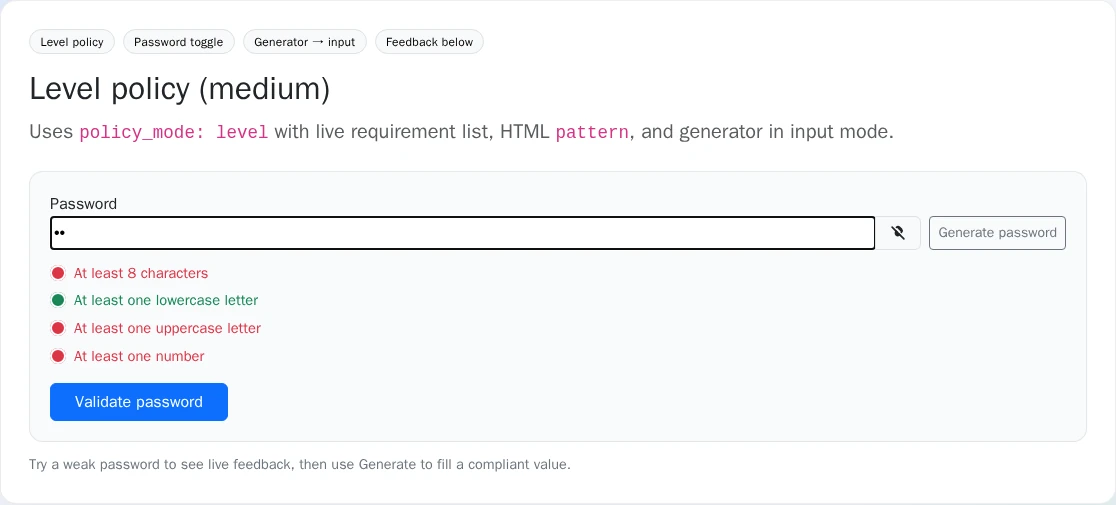
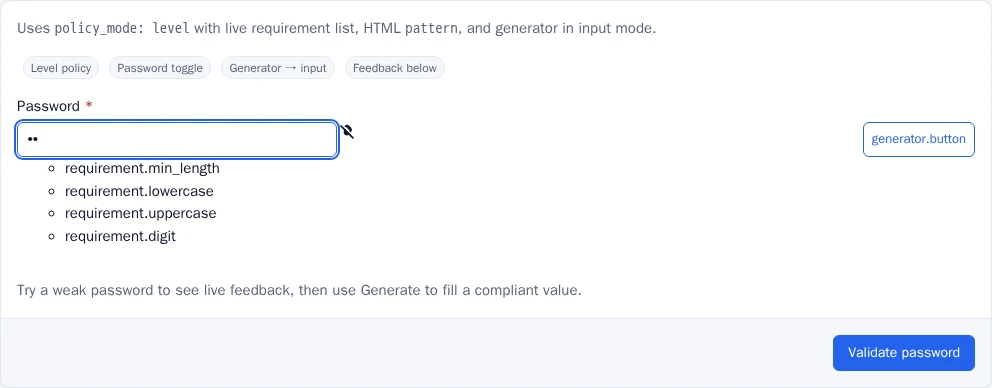
chore(demo): run the demo in UiKit's demo platform shell (#91)

diff --git a/demo/symfony8/e2e/tests/demo-platform.spec.ts b/demo/symfony8/e2e/tests/demo-platform.spec.ts
@@ -1,0 +1,184 @@
+import { test, expect, type Page } from '@playwright/test';
+import AxeBuilder from '@axe-core/playwright';
+
+/**
+ * UiKit demo platform shell (REQ-DEMO-014): layout grammar, demo styles, host theme tokens, framework classes, the
+ * closed phone drawer, 44 px touch targets and input borders on every demo page, plus axe (wcag2a / 2aa / 21a / 21aa,
+ * serious + critical = 0) in light and dark, desktop and phone, and the keyboard drawer pass.
+ */
+type Theme = 'light' | 'dark';
+type PageEntry = string | ((page: Page) => Promise<string>);
+
+async function prepare(_page: Page): Promise<void> {}
+
+async function setTheme(page: Page, theme: Theme): Promise<void> {
+  await page.evaluate((t) => {
+    document.documentElement.setAttribute('data-theme', t);
+    document.documentElement.setAttribute('data-bs-theme', t);
+  }, theme);
+}
+
+async function axe(page: Page): Promise<string[]> {
+  const result = await new AxeBuilder({ page }).withTags(['wcag2a', 'wcag2aa', 'wcag21a', 'wcag21aa']).exclude('.sf-toolbar').analyze();
+  return result.violations
+    .filter((v) => v.impact === 'serious' || v.impact === 'critical')
+    .map((v) => `${v.id}: ${v.nodes.map((n) => n.target.join(' ')).join(', ')}`);
+}
+
+/** The demo layout + style rules (docs/USAGE.md "Demo platform shell"; same function as the rollout brief's spec): layout grammar,
+ * no demo styles / host tokens / framework classes, closed drawer inert, 44 px targets on coarse pointers, input borders 3:1. */
+/* eslint-disable */
+// prettier-ignore
+function demoPlatformRules(): string[] {
+  const issues = [];
+  const main = document.querySelector('#nowo-ui-content');
+  const shell = document.querySelector('[data-testid="demo-platform"]');
+  if (!main || !shell) return ['no-demo-platform-shell'];
+  const visible = (el) => !!(el.offsetWidth || el.offsetHeight || el.getClientRects().length);
+  const carded = (el) => el.closest('.nowo-ui-card, [data-nowo-ui-region="table"], [data-nowo-ui-region="form"], .nowo-ui-form-panel, dialog');
+  const skip = (el) => el.closest('dialog, [data-nowo-ui-region="filters"], .nowo-ui-filters, .nowo-ui-page-header');
+
+  // Layout grammar.
+  main.querySelectorAll('table').forEach((t) => { if (!carded(t)) issues.push('table-outside-card'); });
+  main.querySelectorAll('form').forEach((f) => {
+    if (f.querySelector('input:not([type="hidden"]), select, textarea') && !carded(f) && !skip(f) && !f.closest('table')) issues.push('form-outside-card');
+  });
+  const primaries = [...main.querySelectorAll('.nowo-ui-btn--primary')].filter((b) => visible(b) && !b.closest('table, dialog, [data-nowo-ui-region="filters"], .nowo-ui-filters, form'));
+  if (primaries.length > 1) issues.push(`primary-buttons:${primaries.length}`);
+  const header = main.querySelector('.nowo-ui-page-header');
+  const flashes = main.querySelector('.nowo-ui-flashes');
+  if (header && flashes && (flashes.compareDocumentPosition(header) & Node.DOCUMENT_POSITION_FOLLOWING)) issues.push('flashes-before-page-header');
+  if (document.documentElement.scrollWidth > document.documentElement.clientWidth + 1) issues.push('page-scrolls-horizontally');
+
+  // Styles: no demo styles, no host theme tokens, no CDN / foreign stylesheet, no framework classes inside the shell.
+  document.querySelectorAll('style').forEach((s) => {
+    if (s.matches('[data-nowo-ui-theme-tokens], [data-nowo-ui-appearance]')) { issues.push('host-theme-tokens'); return; }
+    if (!/sf-toolbar|sfwdt|sf-minitoolbar|sf-display/.test(s.textContent || '') && !s.closest('[id^="sfwdt"], .sf-toolbar')) issues.push('style-element');
+  });
+  document.querySelectorAll('link[rel="stylesheet"]').forEach((l) => {
+    const path = new URL(l.href, location.href).pathname;
+    if (!path.startsWith('/bundles/') && !path.startsWith('/_wdt/') && !path.startsWith('/_profiler/')) issues.push(`stylesheet:${path}`);
+  });
+  const framework = /^(acme-.*|nav-tabs|nav-link|nav-item|alert|alert-.*|form-check.*|form-control|form-select|form-label|btn|btn-.*|card|card-.*|badge|row|col|col-.*|table|table-.*)$/;
+  shell.querySelectorAll('[class]').forEach((el) => {
+    for (const c of el.classList) { if (framework.test(c)) { issues.push(`framework-class:${c}`); break; } }
+  });
+
+  // Drawer: below 901 px a closed drawer is inert and the burger says so.
+  const aside = shell.querySelector('[data-nowo-ui-aside]');
+  if (aside && window.innerWidth < 901) {
+    const open = shell.classList.contains('is-aside-open-mobile');
+    if (!open && !aside.hasAttribute('inert')) issues.push('drawer-not-inert');
+    shell.querySelectorAll('[data-nowo-ui-burger]').forEach((b) => {
+      if (visible(b) && b.getAttribute('aria-expanded') !== (open ? 'true' : 'false')) issues.push('burger-state');
+    });
+  }
+
+  // Touch: 44 px targets on coarse pointers (checkbox / radio 24 px, their label carries the 44 px row).
+  if (window.matchMedia('(pointer: coarse)').matches) {
+    const controls = [...shell.querySelectorAll('.nowo-ui-btn, button, summary, input:not([type="hidden"]), select, textarea, [role="tab"], .nowo-ui-aside__link, .nowo-ui-demo-platform__locale')]
+      .filter((el) => visible(el) && !el.closest('[inert], table, .ts-control'));
+    for (const el of controls) {
+      const r = el.getBoundingClientRect();
+      const small = el.matches('input[type="checkbox"], input[type="radio"]') ? r.height < 24 || r.width < 24 : r.height < 43.5;
+      if (small) { issues.push(`target-under-44px:${(el.className && String(el.className).split(' ')[0]) || el.tagName.toLowerCase()}`); }
+    }
+  }
+
+  // Inputs: boundary 3:1 or more against the surface behind them (WCAG 1.4.11).
+  const rgb = (c) => { const m = c.match(/[\d.]+/g); return m ? m.slice(0, 4).map(Number) : null; };
+  const lum = (c) => { const v = c.slice(0, 3).map((x) => { const s = x / 255; return s <= 0.03928 ? s / 12.92 : ((s + 0.055) / 1.055) ** 2.4; }); return 0.2126 * v[0] + 0.7152 * v[1] + 0.0722 * v[2]; };
+  const bgOf = (el) => { for (let n = el.parentElement; n; n = n.parentElement) { const c = rgb(getComputedStyle(n).backgroundColor); if (c && (c.length < 4 || c[3] > 0)) return c; } return [255, 255, 255]; };
+  shell.querySelectorAll('input:not([type="hidden"], [type="checkbox"], [type="radio"]), select, textarea').forEach((el) => {
+    if (!visible(el) || el.closest('[inert]')) return;
+    const border = rgb(getComputedStyle(el).borderTopColor);
+    if (!border) return;
+    const a = lum(border); const b = lum(bgOf(el));
+    if ((Math.max(a, b) + 0.05) / (Math.min(a, b) + 0.05) < 3) issues.push(`input-border-under-3:1:${el.id || el.name || el.tagName.toLowerCase()}`);
+  });
+
+  return [...new Set(issues)];
+}
+
+
+const PAGES: PageEntry[] = ["/en/", "/es/", "/en/demo/level", "/en/demo/conditions", "/en/demo/plain", "/en/demo/csp"];
+
+const BUNDLE_OWNED: Array<{ path: RegExp; rule: RegExp }> = [{ path: /^\/(en|es)\/demo\//, rule: /^(style-element|list: .*password-strength)/ }];
+
+/** Findings on a bundle's own page are reported as bundle-owned (not patched in the demo): they are filtered here, by path and rule. */
+function demo(url: string, issues: string[]): string[] {
+  const path = new URL(url).pathname;
+  return issues.filter((issue) => !BUNDLE_OWNED.some((o) => o.path.test(path) && o.rule.test(issue)));
+}
+
+async function resolvePath(page: Page, entry: PageEntry): Promise<string> {
+  return typeof entry === 'function' ? entry(page) : entry;
+}
+
+test.describe('demo platform rules', () => {
+  // Device-emulating projects (phone / iphone ...) set their own context: the viewport blocks below do it explicitly.
+  test.beforeEach(async ({ page }, testInfo) => {
+    test.skip(/phone/i.test(testInfo.project.name), 'viewport blocks set their own context');
+    // The Symfony toolbar is dev chrome, never part of the rules or axe runs.
+    await page.addInitScript(() => {
+      document.addEventListener('DOMContentLoaded', () => {
+        const s = document.createElement('style');
+        s.textContent = '.sf-toolbar,.sf-minitoolbar,[id^="sfwdt"]{display:none!important}';
+        document.head.appendChild(s);
+      });
+    });
+  });
+
+  test('desktop 1440 px', async ({ page }) => {
+    await page.setViewportSize({ width: 1440, height: 900 });
+    await prepare(page);
+    for (const path of PAGES) {
+      await page.goto(await resolvePath(page, path));
+      expect(demo(page.url(), await page.evaluate(demoPlatformRules)), page.url()).toEqual([]);
+    }
+  });
+
+  test.describe('phone 390 px, touch', () => {
+    test.use({ viewport: { width: 390, height: 844 }, isMobile: true, hasTouch: true });
+
+    test('rules on every page', async ({ page }) => {
+      await prepare(page);
+      for (const path of PAGES) {
+        await page.goto(await resolvePath(page, path));
+        expect(demo(page.url(), await page.evaluate(demoPlatformRules)), page.url()).toEqual([]);
+      }
+    });
+
+    test('keyboard drawer pass', async ({ page }) => {
+      await prepare(page);
+      await page.goto(await resolvePath(page, PAGES[0]));
+      const aside = page.locator('[data-nowo-ui-aside]');
+      await expect(aside).toHaveAttribute('inert', '');
+      const burger = page.locator('[data-nowo-ui-burger]').first();
+      await expect(burger).toHaveAttribute('aria-expanded', 'false');
+      await burger.focus();
+      await page.keyboard.press('Enter');
+      await expect(page.getByTestId('demo-platform')).toHaveClass(/is-aside-open-mobile/);
+      await expect(page.locator('[data-nowo-ui-aside] :focus')).toHaveCount(1);
+      await expect(page.locator('.nowo-ui-main')).toHaveAttribute('inert', '');
+      await expect(page.locator('html')).toHaveClass(/nowo-ui-drawer-open/);
+      await page.keyboard.press('Escape');
+      await expect(burger).toBeFocused();
+      await expect(aside).toHaveAttribute('inert', '');
+    });
+  });
+
+  for (const theme of ['light', 'dark'] as Theme[]) {
+    for (const [name, width] of [['desktop', 1440], ['phone', 390]] as const) {
+      test(`axe clean: ${name}, ${theme}`, async ({ page }) => {
+        await page.setViewportSize({ width, height: 900 });
+        await prepare(page);
+        for (const path of PAGES) {
+          await page.goto(await resolvePath(page, path));
+          await setTheme(page, theme);
+          expect(demo(page.url(), await axe(page)), page.url()).toEqual([]);
+        }
+      });
+    }
+  }
+});

diff --git a/demo/symfony8/src/Controller/PasswordDemoController.php b/demo/symfony8/src/Controller/PasswordDemoController.php
@@ -10,6 +10,7 @@ use Symfony\Component\Form\FormInterface;
 use Symfony\Component\HttpFoundation\Request;
 use Symfony\Component\HttpFoundation\Response;
 use Symfony\Component\Routing\Attribute\Route;
+use Symfony\Contracts\Translation\TranslatorInterface;
 
 use function base64_encode;
 use function random_bytes;
@@ -23,6 +24,10 @@ use function strtr;
 final class PasswordDemoController extends AbstractController
 {
     private const LOCALE_REQUIREMENT = ['_locale' => 'en|es'];
+
+    public function __construct(private readonly TranslatorInterface $translator)
+    {
+    }
 
     #[Route('/', name: 'demo_root', methods: ['GET'])]
     public function root(): Response
@@ -150,7 +155,8 @@ final class PasswordDemoController extends AbstractController
         $form->handleRequest($request);
 
         if ($form->isSubmitted() && $form->isValid()) {
-            $this->addFlash('success', 'demo.saved_success');
+            // Flash texts are plain text (the demo platform shell prints them as given).
+            $this->addFlash('success', $this->translator->trans('demo.saved_success', [], 'messages', $request->getLocale()));
         }
 
         return $this->render('password_demo/show.html.twig', [

diff --git a/docs/CHANGELOG.md b/docs/CHANGELOG.md
@@ -41,6 +41,10 @@ and this project adheres to [Semantic Versioning](https://semver.org/spec/v2.0.0
 
 ## [Unreleased]
 
+### Changed
+
+- Demo: runs in UiKit's demo platform shell (`nowo-tech/ui-kit-bundle` ^2.60); the demo's own header is gone and the pages use the shell page headers and section cards. Demo only, no bundle change.
+
 ### Documentation
 
 - Spec Kit baseline: the code inventory maps all 69 files under `src/` again (the 2.13.0 service ports, the profile provider SPI and the UI-class Vitest file), with `FR-PORT-001` / `FR-PROF-001` in the spec (REQ-SPECKIT-001/003). README coverage figures match CI (99.35%, 612/616 lines; REQ-TEST-007).
